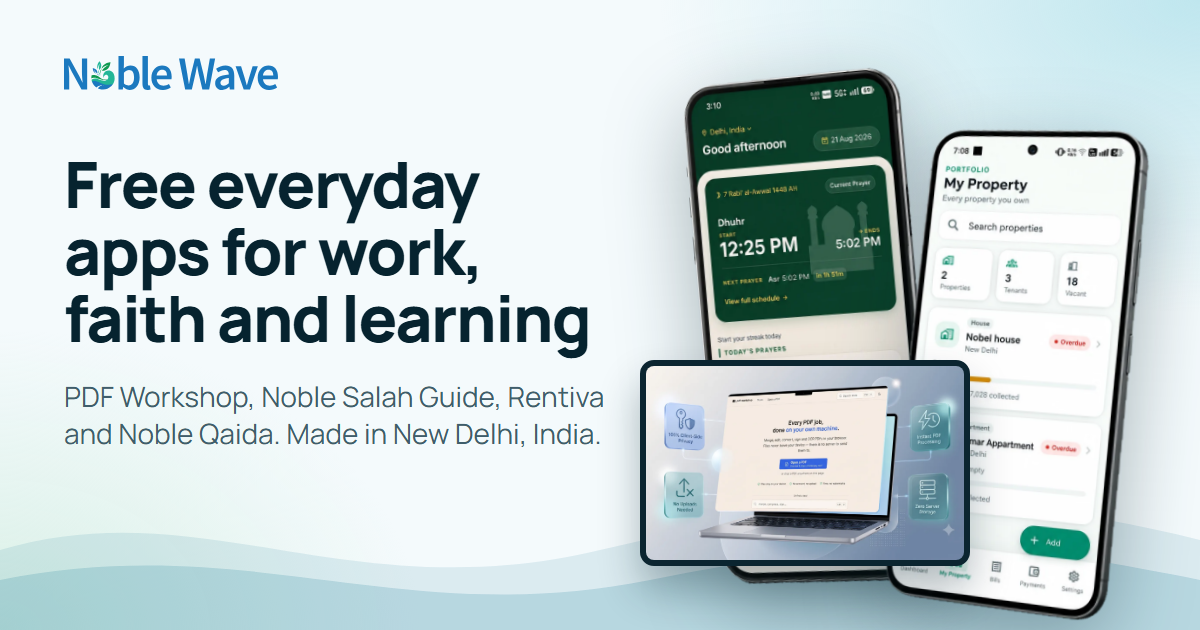
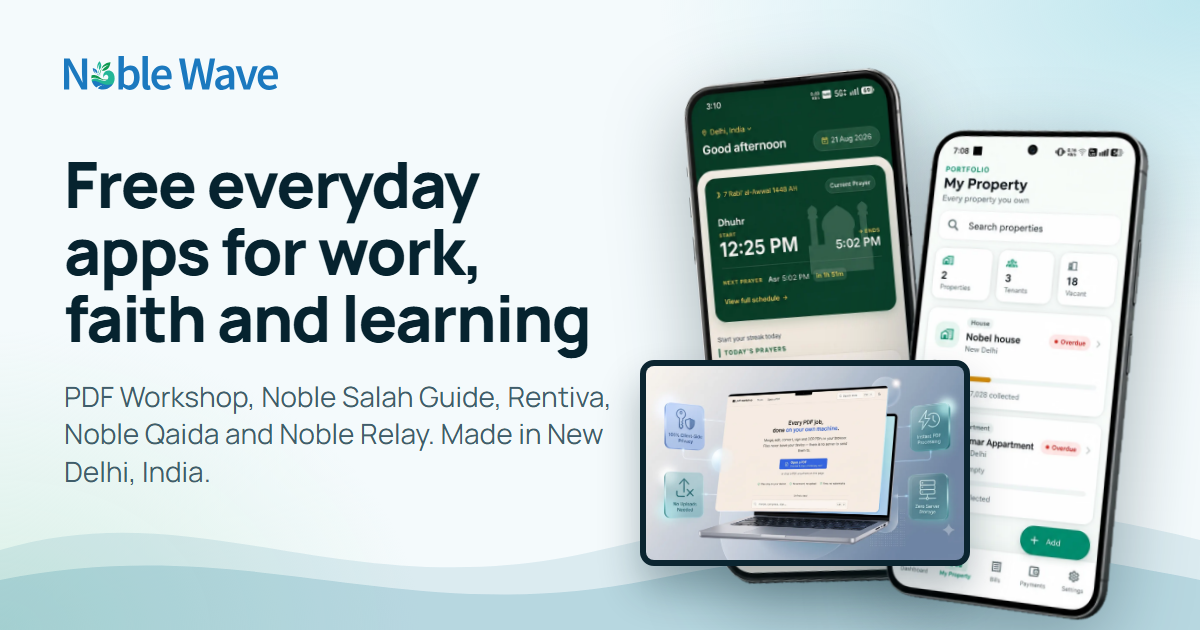
Add Noble Relay as the fifth product
New product page with a fixed-laptop walkthrough from the supplied screens,
a download link to the public releases repo, share card, search data (Windows,
macOS, Linux) and FAQ written from the app's README. The home page app hub now
draws five apps; product-list copy and tests are updated for five products.

Changed region(s): [[0.0308, 0.6635, 0.4933, 0.7841]]

diff --git a/src/app/core/products.config.ts b/src/app/core/products.config.ts
@@ -7,7 +7,7 @@ export interface Screenshot {
 }
 
 export interface ProductLink {
-  readonly kind: 'web' | 'play';
+  readonly kind: 'web' | 'play' | 'download';
   readonly label: string;
   readonly url: string;
 }
@@ -219,6 +219,44 @@ export const PRODUCTS: readonly Product[] = [
       { file: 'qaida-m-1', poster: true, alt: 'Noble Qaida Learn screen on a phone with a daily goal, a streak and a Continue button' },
       { file: 'qaida-m-2', poster: true, alt: 'Noble Qaida English Letters screen on a phone with capital letters A to P' },
       { file: 'qaida-m-3', poster: true, alt: 'Noble Qaida Hindi Letters screen on a phone showing Hindi letters' },
+    ],
+  },
+  {
+    id: 'noble-relay',
+    name: 'Noble Relay',
+    device: 'desktop',
+    category: 'UtilitiesApplication',
+    free: true,
+    tagline: 'One keyboard and mouse for all your computers',
+    description:
+      'Noble Relay lets you control several computers with a single keyboard and mouse. Move the pointer off the edge of one screen and it continues on the computer next to it, with a shared clipboard and file transfer. It works on Windows, macOS and Linux over your own network.',
+    platforms: ['Windows', 'macOS', 'Linux'],
+    features: [
+      'Move the pointer off a screen edge to continue on the next computer',
+      'Copy on one computer and paste on another: text, images and files',
+      'Send files and folders, with resume if the connection drops',
+      'Chat, and view another computer’s screen when its owner allows it',
+      'Encrypted and local: paired by a 6-digit code, with no account and no server',
+      'Windows, macOS and Linux, with the same app on every computer',
+    ],
+    faq: [
+      { q: 'What is Noble Relay?', a: 'Noble Relay is a desktop app that lets you control several computers with one keyboard and mouse. Move the pointer off the edge of a screen and it continues on the computer next to it.' },
+      { q: 'Which computers does it work on?', a: 'Windows, macOS and Linux. Install the same app on each computer and they can share their keyboard and mouse with one another.' },
+      { q: 'Do I need an account or the internet?', a: 'No. There is no account and no server. Computers find each other on your local network, and you pair them once with a 6-digit code.' },
+      { q: 'Is it secure?', a: 'Computers only talk to the computers you paired, and all traffic is encrypted. Each paired computer has switches for what it may do, such as use the keyboard, send files or ask to see the screen.' },
+      { q: 'Can I use it to control a computer over the internet?', a: 'No. Noble Relay works between computers on the same local network. Viewing another computer’s screen is watch-only, and its owner approves each request.' },
+      { q: 'Where do I download it?', a: 'Download the installer for each computer from the Noble Relay releases page on GitHub.' },
+    ],
+    glow: '19 120 90',
+    screenRatio: 1.6,
+    story: [
+      { file: 'relay-1', title: 'Pair the computers on your network', text: 'Open Noble Relay on each computer. They find each other in seconds. Press Pair and type the 6-digit code shown on the other one.', alt: 'Noble Relay Computers screen listing this computer and two others on the network, each with a Pair button' },
+      { file: 'relay-2', title: 'Arrange them like your desk', text: 'Drag each computer to where it sits on your desk. The pointer crosses only where screen edges touch, and drops files onto a computer send them.', alt: 'Noble Relay Arrange screen with two computers placed side by side, their touching edge highlighted' },
+    ],
+    links: [{ kind: 'download', label: 'Download for free', url: 'https://github.com/sohail12ali/multi-control-releases/releases/latest' }],
+    screenshots: [
+      { file: 'relay-1', alt: 'Noble Relay on a laptop, with the Computers screen and its main features listed beside it' },
+      { file: 'relay-2', alt: 'Noble Relay Arrange screen on a laptop: one keyboard, multiple computers' },
     ],
   },
 ];

diff --git a/src/app/shared/ui/app-hub.ts b/src/app/shared/ui/app-hub.ts
@@ -9,6 +9,7 @@ const FEATURE_NODES: Record<string, readonly string[]> = {
   'noble-salah': ['Prayer times', 'Qibla', 'Quran'],
   'rentiva': ['Bills', 'Payments', 'Reports'],
   'noble-qaida': ['Letters', 'Audio', 'Streaks'],
+  'noble-relay': ['Mouse', 'Clipboard', 'Files'],
 };
 
 /** One colour per app (r g b) for its glow, its zig-zag link and its small nodes, picked to sit with its icon. */
@@ -17,6 +18,7 @@ const ACCENT: Record<string, string> = {
   'noble-salah': '13 148 136',
   'rentiva': '34 197 94',
   'noble-qaida': '245 158 11',
+  'noble-relay': '99 102 241',
 };
 
 /**
@@ -27,6 +29,7 @@ const ICONS: Record<string, string> = {
   'pdf-workshop': 'images/app-icons/pdf-workshop.svg',
   'noble-salah': 'images/app-icons/noble-salah.png',
   'rentiva': 'images/app-icons/rentiva.png',
+  'noble-relay': 'images/app-icons/noble-relay.png',
 };
 const TILE = 68;
 /** Size of the stand-in glyph on a tile, in picture units. */
@@ -34,9 +37,13 @@ const GLYPH_SIZE = 34;
 const BOOK_PATHS = GLYPHS['book-open'].paths;
 
 const W = 600;
-const H = 500;
+const H = 610;
+/** The small nodes of the outer apps reach past the edges of the 600 x 610 area, so the view starts a little outside it. */
+const VIEW_TOP = -30;
+const VIEW_LEFT = -40;
+const VIEW_W = W - 2 * VIEW_LEFT;
 const CX = W / 2;
-const CY = H / 2;
+const CY = 290;
 const LEAF_RADIUS = 108;
 const LEAF_SPREAD = 0.75;
 /** How far the zig-zag swings away from the straight line, in picture units. */
@@ -61,12 +68,13 @@ function zigzag(x1: number, y1: number, x2: number, y2: number, bends: number, s
   }
   return `${d} L${x2},${y2}`;
 }
-/** Where each app sits, in the order of PRODUCTS (top left, top right, bottom left, bottom right). */
+/** Where each app sits, in the order of PRODUCTS: five points on an oval around the centre, clockwise from the top. */
 const APP_POSITIONS: readonly (readonly [number, number])[] = [
-  [170, 130],
-  [430, 130],
-  [170, 370],
-  [430, 370],
+  [300, 105],
+  [462, 233],
+  [400, 440],
+  [200, 440],
+  [138, 233],
 ];
 
 /** Zig-zag from the edge of the centre circle to the edge of an app tile. */
@@ -121,9 +129,9 @@ interface Branch {
   template: `
     <svg
       class="hub"
-      [attr.viewBox]="'0 0 ' + w + ' ' + h"
+      [attr.viewBox]="viewBox"
       role="group"
-      aria-label="Noble Wave and its four apps: PDF Workshop, Noble Salah Guide, Rentiva and Noble Qaida"
+      [attr.aria-label]="label"
     >
       <defs>
         <clipPath id="hub-tile-clip"><rect x="-34" y="-34" width="68" height="68" rx="20" /></clipPath>
@@ -329,6 +337,8 @@ export class AppHub {
   protected readonly bookPaths = BOOK_PATHS;
   /** Centres the 24 unit book drawing on the tile at GLYPH_SIZE. */
   protected readonly glyphTransform = `translate(${-GLYPH_SIZE / 2} ${-GLYPH_SIZE / 2}) scale(${GLYPH_SIZE / 24})`;
+  protected readonly viewBox = `${VIEW_LEFT} ${VIEW_TOP} ${VIEW_W} ${H}`;
+  protected readonly label = `Noble Wave and its ${PRODUCTS.length} apps: ${PRODUCTS.map((p) => p.name).join(', ')}`;
   protected readonly w = W;
   protected readonly h = H;
   protected readonly cx = CX;

diff --git a/src/app/core/content.config.ts b/src/app/core/content.config.ts
@@ -97,7 +97,7 @@ export const PRINCIPLES: readonly Principle[] = [
   { icon: 'users', title: 'Built by a small team', text: 'The people who build each app also support it, so feedback goes straight to them.' },
   { icon: 'layout', title: 'Simple to use', text: 'Clear screens and the tools you need up front, designed around everyday tasks.' },
   { icon: 'shield-check', title: 'Privacy respected', text: 'PDF Workshop processes your files in your browser, so they never leave your device.' },
-  { icon: 'check', title: 'Free to use', text: 'PDF Workshop, Noble Salah Guide, Rentiva and Noble Qaida are all free.' },
+  { icon: 'check', title: 'Free to use', text: 'PDF Workshop, Noble Salah Guide, Rentiva, Noble Qaida and Noble Relay are all free.' },
 ];
 
 export const VALUES: readonly Principle[] = [
@@ -136,11 +136,11 @@ export interface FaqItem {
 export const FAQ: readonly FaqItem[] = [
   {
     q: 'Are your apps free?',
-    a: 'Yes. PDF Workshop, Noble Salah Guide, Rentiva and Noble Qaida are all free to use.',
+    a: 'Yes. PDF Workshop, Noble Salah Guide, Rentiva, Noble Qaida and Noble Relay are all free to use.',
   },
   {
     q: 'Where can I use them?',
-    a: 'All four run in your web browser, so there is nothing to install. Noble Salah Guide is also available on Google Play for Android.',
+    a: 'PDF Workshop, Noble Salah Guide, Rentiva and Noble Qaida run in your web browser, so there is nothing to install, and Noble Salah Guide is also on Google Play for Android. Noble Relay is a desktop app for Windows, macOS and Linux that you download and install.',
   },
   {
     q: 'Are my PDF files uploaded anywhere?',

diff --git a/src/app/pages/about/about.ts b/src/app/pages/about/about.ts
@@ -23,7 +23,7 @@ import { TechIcon } from '../../shared/ui/tech-icon';
           </h1>
           <p class="lead mt-6">
             {{ site.name }} is based in {{ site.location }}. We make free apps for everyday needs: working with PDFs,
-            keeping up with daily prayers, managing rentals and helping children learn their letters. We build, host and
+            keeping up with daily prayers, managing rentals, helping children learn their letters and sharing one keyboard and mouse across computers. We build, host and
             support each one ourselves.
           </p>
           <div class="mt-8 flex flex-wrap gap-3">
@@ -118,7 +118,7 @@ export class About {
   constructor() {
     inject(SeoService).set({
       title: 'About Noble Wave',
-      description: `${SITE.name} is a small product team in ${SITE.location} that designs, builds and runs the apps we ship: PDF Workshop, Noble Salah Guide, Rentiva and Noble Qaida.`,
+      description: `${SITE.name} is a small product team in ${SITE.location} that designs, builds and runs the apps we ship: PDF Workshop, Noble Salah Guide, Rentiva, Noble Qaida and Noble Relay.`,
       path: '/about',
     });
   }

diff --git a/src/app/core/structured-data.ts b/src/app/core/structured-data.ts
@@ -56,11 +56,11 @@ export function productData(p: Product): object[] {
       description: p.description,
       url: `${SITE.url}/products/${p.id}`,
       applicationCategory: p.category,
-      operatingSystem: p.platforms.includes('Android') ? 'Web, Android' : 'Web',
+      operatingSystem: p.platforms.join(', '),
       image: abs(productOgImage(p)),
       screenshot: p.screenshots.map((s) => abs(`/images/products/${s.file}.webp`)),
       featureList: p.features,
-      downloadUrl: p.links.find((l) => l.kind === 'play')?.url,
+      downloadUrl: p.links.find((l) => l.kind === 'play' || l.kind === 'download')?.url,
       sameAs: external,
       author: { '@id': ORG_ID },
       publisher: { '@id': ORG_ID },

diff --git a/src/app/pages/home/home.ts b/src/app/pages/home/home.ts
@@ -28,7 +28,7 @@ import { TechMarquee } from '../../shared/ui/tech-marquee';
           </h1>
           <p class="lead mt-6">
             Noble Wave builds free apps for the things people do every day: working with PDFs, keeping up with
-            prayers, managing rentals and helping children learn their letters. Open one in your browser today.
+            prayers, managing rentals, helping children learn their letters and sharing one keyboard and mouse across computers. Open one in your browser or download it today.
           </p>
           <div class="mt-9 flex flex-wrap gap-3">
             <a routerLink="/products" class="btn btn-primary">See our products <nw-icon name="arrow-right" /></a>

diff --git a/src/app/core/content.spec.ts b/src/app/core/content.spec.ts
@@ -41,7 +41,7 @@ describe('site content', () => {
       for (const l of p.links) {
         expect(l.url.startsWith('https://')).toBe(true);
       }
-      expect(p.story.length).toBeGreaterThanOrEqual(3);
+      expect(p.story.length).toBeGreaterThanOrEqual(2);
     }
   });
 
@@ -62,5 +62,6 @@ describe('site content', () => {
     expect(urls).toContain('https://play.google.com/store/apps/details?id=com.noblewave.noblesalah');
     expect(urls).toContain('https://rentiva.noble-wave.com/');
     expect(urls).toContain('https://pdf-workshop.noble-wave.com/');
+    expect(urls).toContain('https://github.com/sohail12ali/multi-control-releases/releases/latest');
   });
 });

diff --git a/src/app/pages/products/products.ts b/src/app/pages/products/products.ts
@@ -38,9 +38,9 @@ export class Products {
 
   constructor() {
     inject(SeoService).set({
-      title: 'Our apps: PDF, prayer, rentals and learning',
+      title: 'Our apps: PDF, prayer, rentals, learning and more',
       description:
-        'PDF Workshop, Noble Salah Guide, Rentiva and Noble Qaida: free apps for PDFs, prayer times, rentals and learning letters, built and run by Noble Wave.',
+        'PDF Workshop, Noble Salah Guide, Rentiva, Noble Qaida and Noble Relay: free apps for PDFs, prayer, rentals, learning and multi-computer control, by Noble Wave.',
       path: '/products',
       jsonLd: productListData(),
     });

diff --git a/src/app/pages/product-detail/product-detail.ts b/src/app/pages/product-detail/product-detail.ts
@@ -40,7 +40,7 @@ import { NotFound } from '../not-found/not-found';
               @for (l of p.links; track l.url; let first = $first) {
                 <a [href]="l.url" class="btn" [class.btn-primary]="first" [class.btn-secondary]="!first" target="_blank" rel="noopener noreferrer"
                    [attr.aria-label]="l.label + ' (opens in a new tab)'">
-                  <nw-icon [name]="l.kind === 'play' ? 'play' : 'globe'" />
+                  <nw-icon [name]="l.kind === 'play' ? 'play' : l.kind === 'download' ? 'download' : 'globe'" />
                   {{ l.label }}
                 </a>
               }

diff --git a/src/app/pages/legal/legal.ts b/src/app/pages/legal/legal.ts
@@ -106,7 +106,7 @@ const TERMS: LegalDoc = {
     },
     {
       heading: 'Products and third-party services',
-      paragraphs: ['Our apps, including PDF Workshop, Noble Salah Guide, Rentiva and Noble Qaida, may be subject to separate terms and the policies of the stores or platforms that distribute them.'],
+      paragraphs: ['Our apps, including PDF Workshop, Noble Salah Guide, Rentiva, Noble Qaida and Noble Relay, may be subject to separate terms and the policies of the stores or platforms that distribute them.'],
     },
     {
       heading: 'Information on this site',

diff --git a/src/index.html b/src/index.html
@@ -7,7 +7,7 @@
     <meta name="viewport" content="width=device-width, initial-scale=1" />
     <meta
       name="description"
-      content="Noble Wave builds and runs apps people use every day: PDF Workshop, Noble Salah Guide, Rentiva and Noble Qaida. Made in New Delhi, India."
+      content="Noble Wave builds and runs apps people use every day: PDF Workshop, Noble Salah Guide, Rentiva, Noble Qaida and Noble Relay. Made in New Delhi, India."
     />
     <meta name="theme-color" content="#0e7490" />
     <link rel="icon" href="favicon.ico" sizes="48x48" />

diff --git a/src/app/core/site.config.ts b/src/app/core/site.config.ts
@@ -6,7 +6,7 @@ export const SITE = {
   name: 'Noble Wave',
   tagline: 'Free everyday apps for work, faith and learning',
   description:
-    'Noble Wave builds free apps people use daily: PDF Workshop, Noble Salah Guide, Rentiva and Noble Qaida, for PDFs, prayer, rentals and learning. Made in New Delhi.',
+    'Noble Wave builds free apps people use daily: PDF Workshop, Noble Salah Guide, Rentiva, Noble Qaida and Noble Relay. Made in New Delhi.',
   url: 'https://noble-wave.com',
   email: 'info@noble-wave.com',
   phone: '+918448462846',
